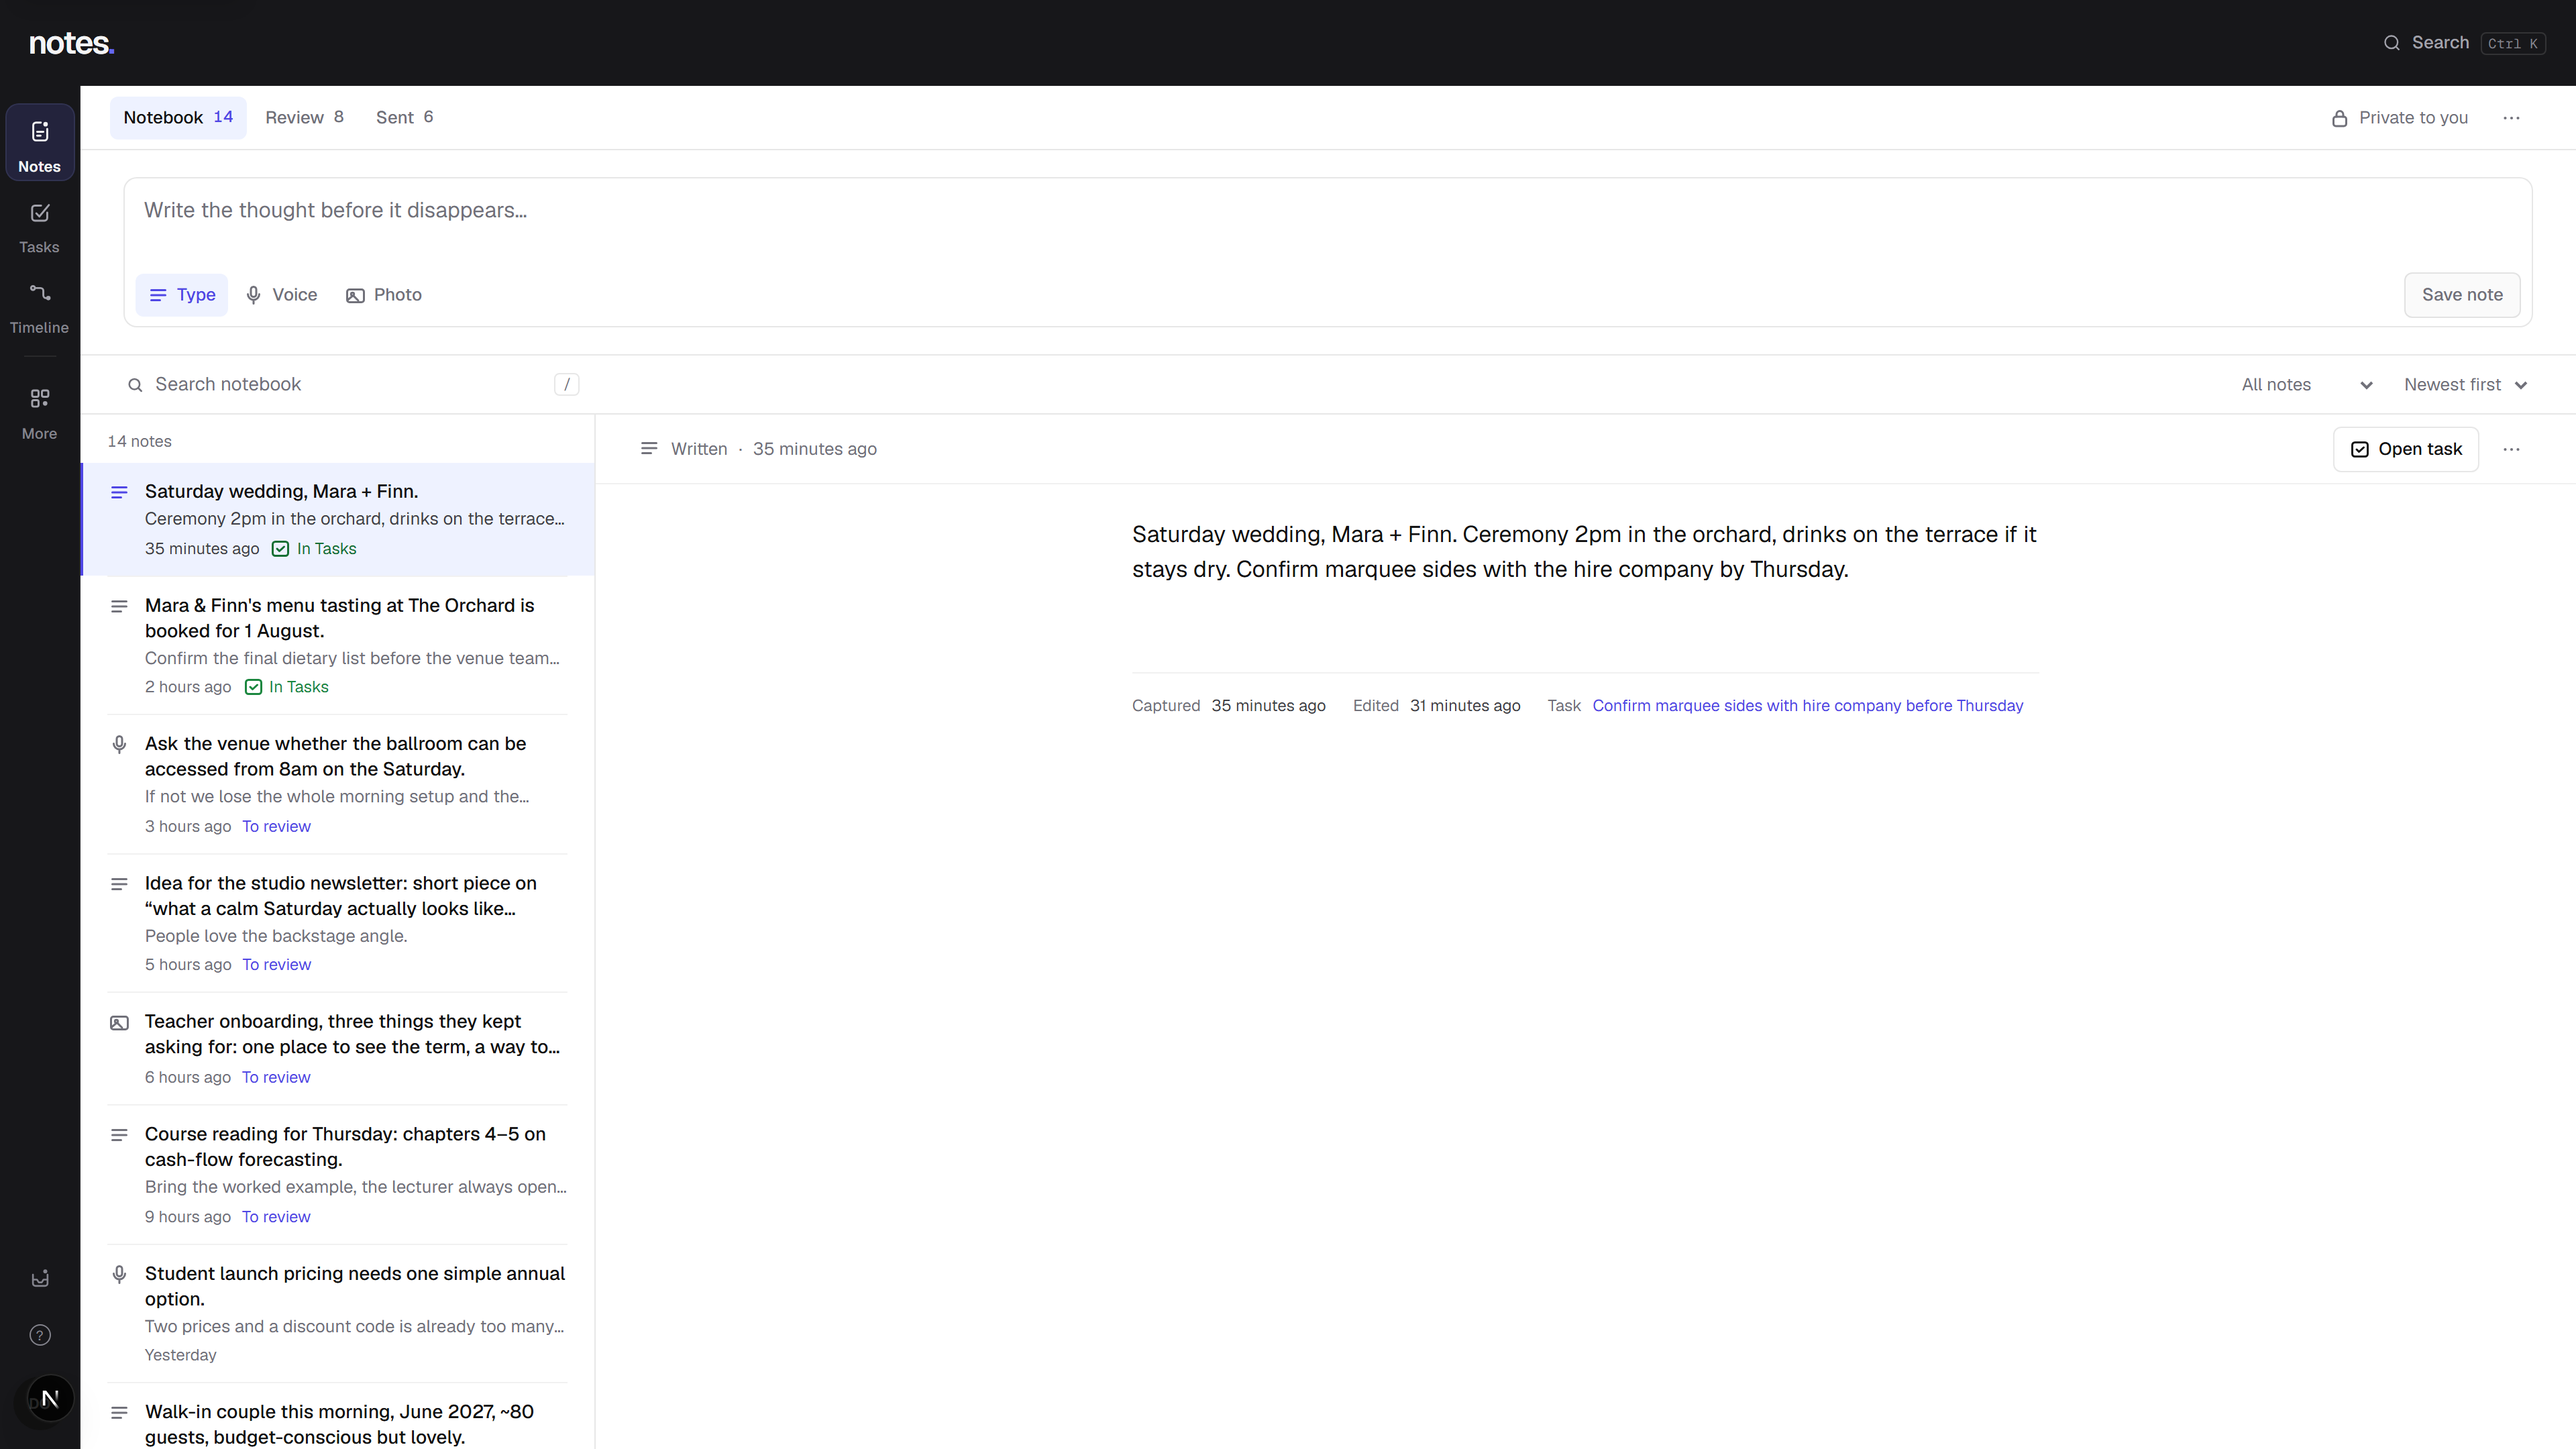
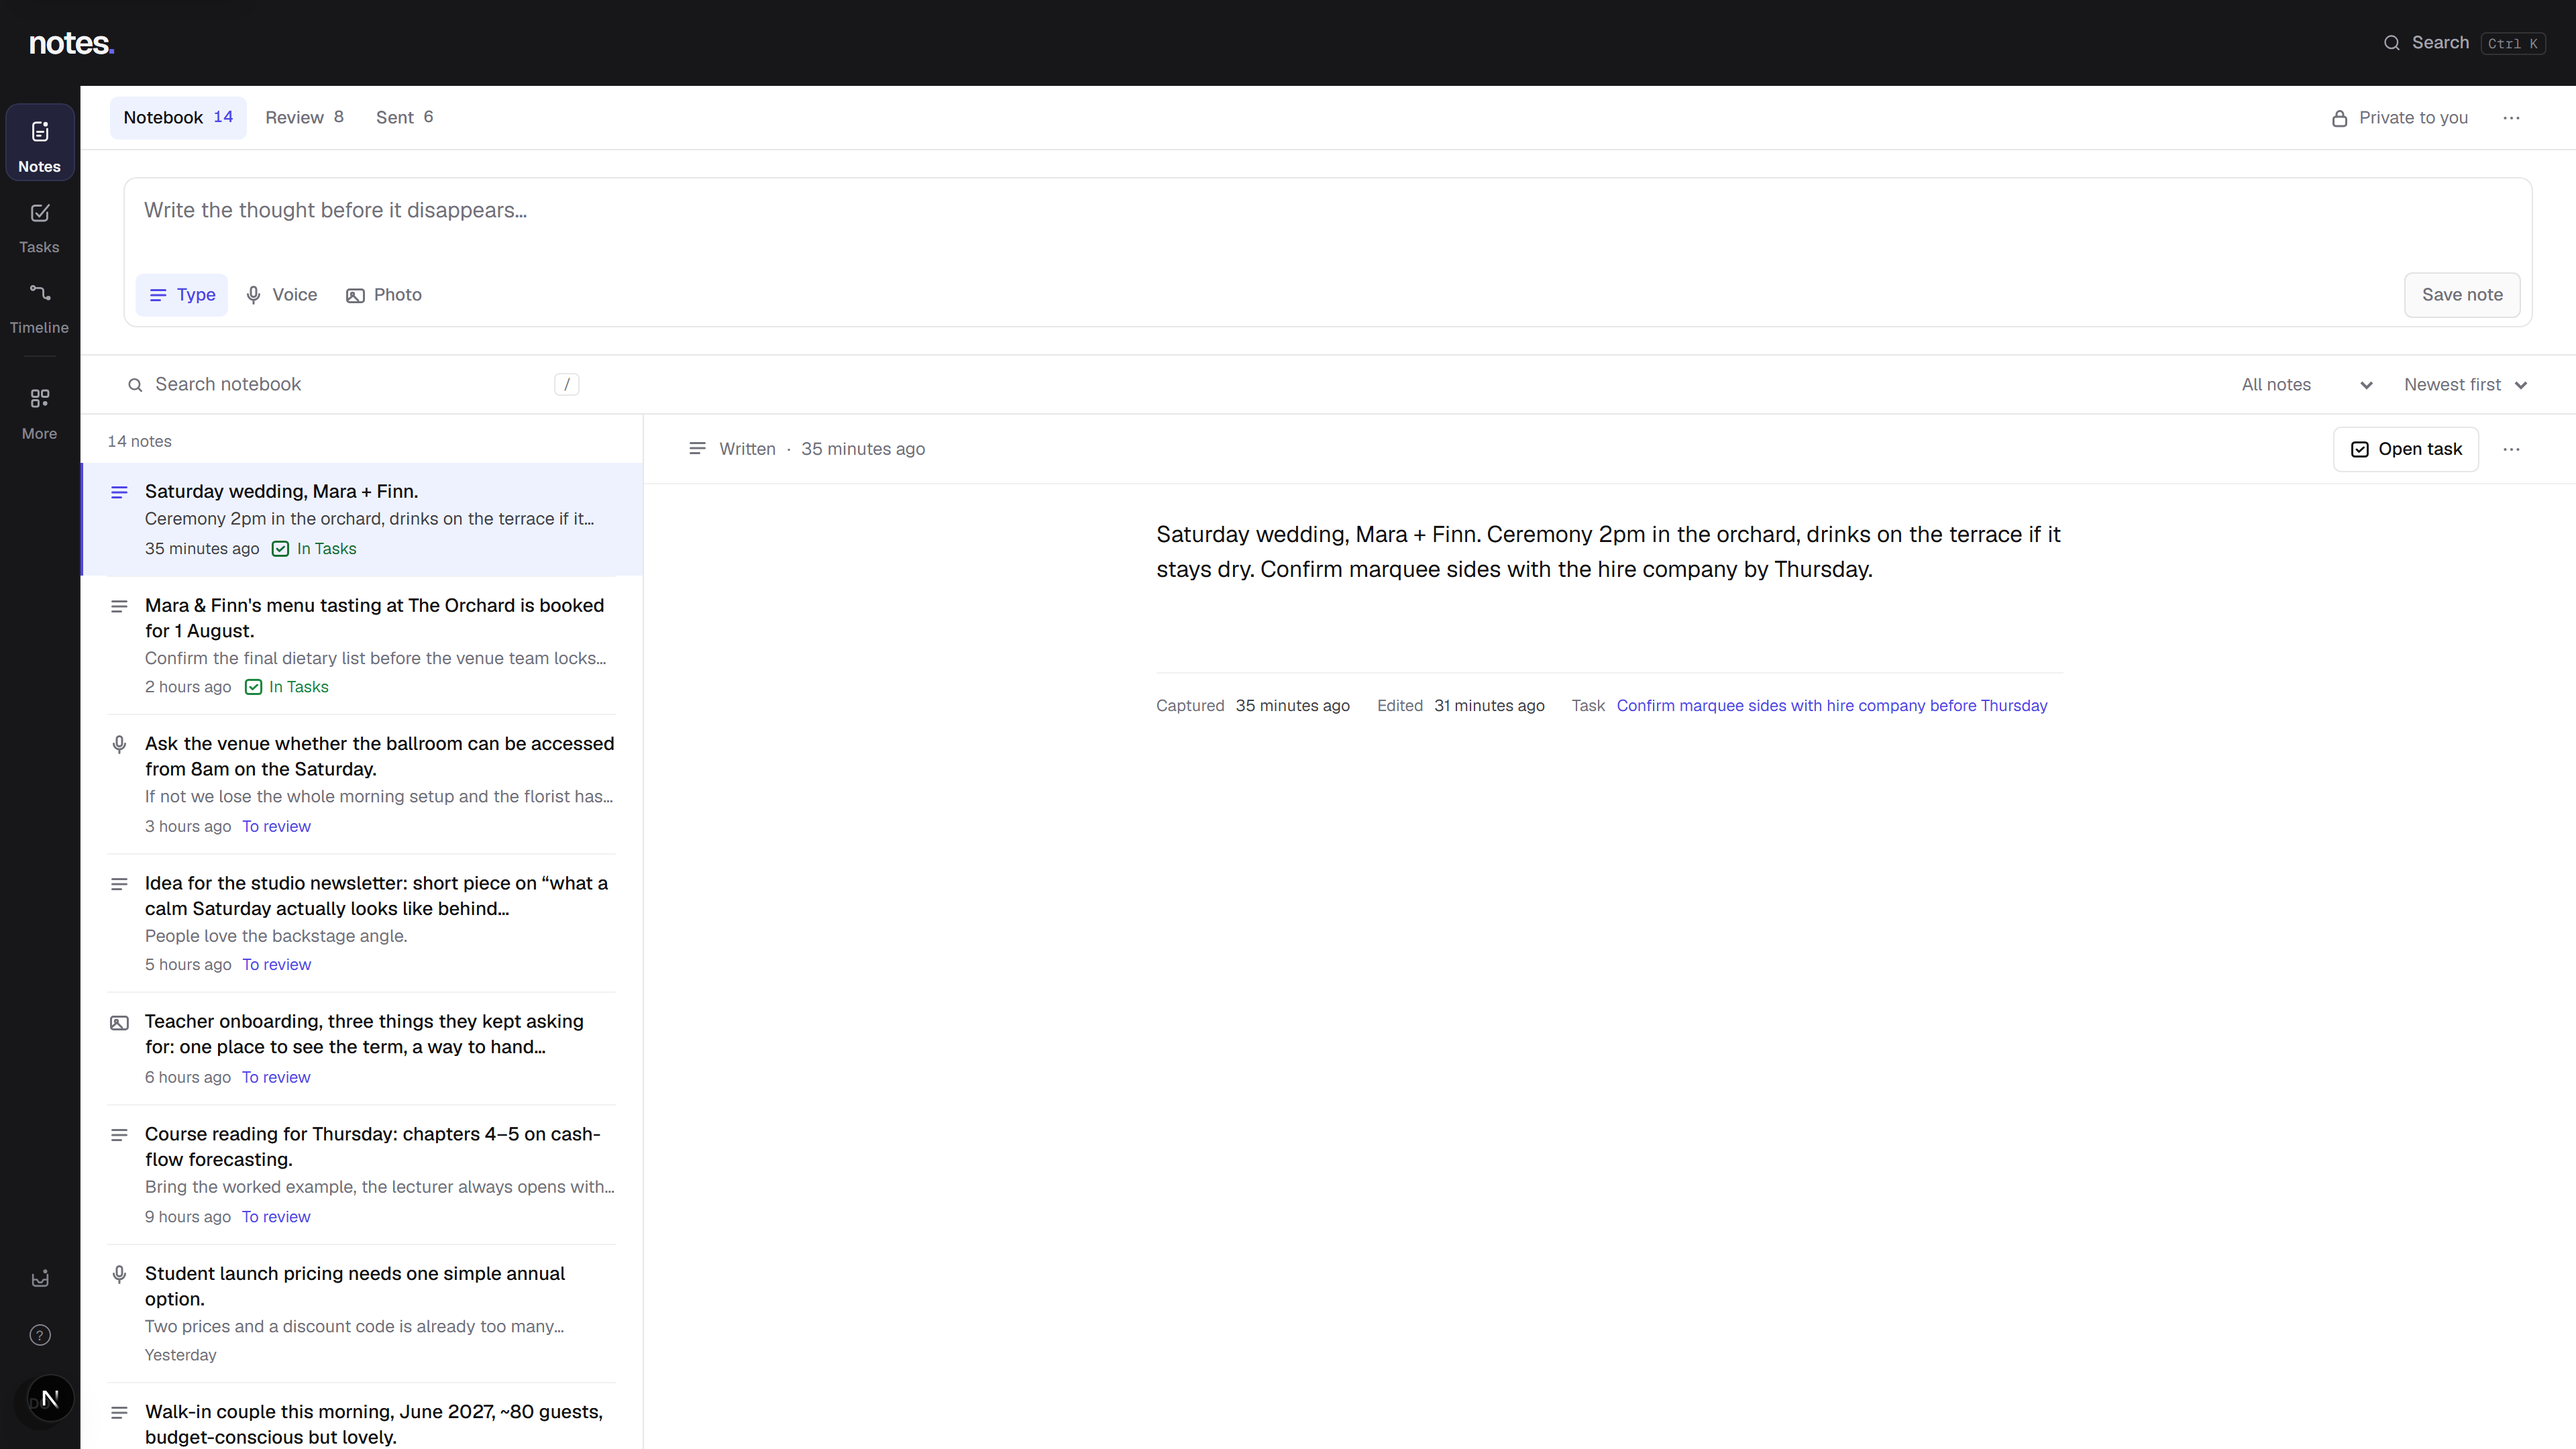
Give the extra width to the list, not the gutters
Above 1600px the reading measure stays fixed and every additional pixel was
becoming empty margin either side of the note. The list now takes it, up to
the 420px it was designed for.

diff --git a/src/modules/notes/app/workspace/notes-workspace.module.css b/src/modules/notes/app/workspace/notes-workspace.module.css
@@ -1494,6 +1494,15 @@ textarea.fieldControl {
 
 /* ── Responsive ───────────────────────────────────────────────────────── */
 
+/* Past this width the extra pixels should go to the list, not to the gutters
+   either side of a fixed reading measure. 420px is the top of the range the
+   list was designed for. */
+@media (min-width: 1600px) {
+  .root {
+    --x-notes-list: 420px;
+  }
+}
+
 @media (max-width: 1279px) {
   .root {
     --x-notes-list: 336px;
